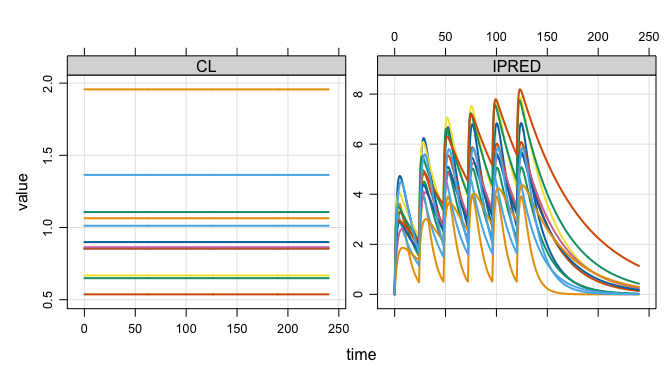
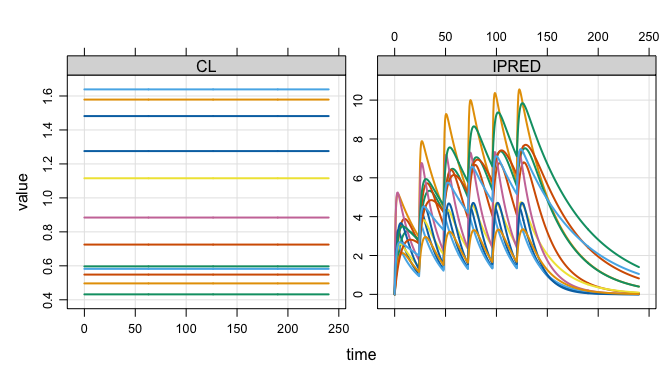
readme

diff --git a/README.md b/README.md
@@ -60,14 +60,14 @@ out
 . Files: 1 [11.9 Mb]
 . Owner: yes
 .     ID time       CL    IPRED
-. 1:   1  0.0 0.854883 0.000000
-. 2:   1  0.0 0.854883 0.000000
-. 3:   1  0.5 0.854883 1.338030
-. 4:   1  1.0 0.854883 2.347499
-. 5:   1  1.5 0.854883 3.101430
-. 6:   1  2.0 0.854883 3.656796
-. 7:   1  2.5 0.854883 4.058040
-. 8:   1  3.0 0.854883 4.339831
+. 1:   1  0.0 1.481687 0.000000
+. 2:   1  0.0 1.481687 0.000000
+. 3:   1  0.5 1.481687 1.440259
+. 4:   1  1.0 1.481687 2.309250
+. 5:   1  1.5 1.481687 2.818177
+. 6:   1  2.0 1.481687 3.100575
+. 7:   1  2.5 1.481687 3.240858
+. 8:   1  3.0 1.481687 3.292378
 ```
 
 ## Very lightweight simulation output object
@@ -78,7 +78,7 @@ disk.
 
 ``` r
 basename(out$files)
-. [1] "mrgsims-ds-1809b3f24fb6d.parquet"
+. [1] "mrgsims-ds-2f3a3504365d.parquet"
 ```
 
 This means there is almost nothing inside the object itself
@@ -123,23 +123,23 @@ head(out)
 . # A tibble: 6 × 4
 .      ID  time    CL IPRED
 .   <dbl> <dbl> <dbl> <dbl>
-. 1     1   0   0.855  0   
-. 2     1   0   0.855  0   
-. 3     1   0.5 0.855  1.34
-. 4     1   1   0.855  2.35
-. 5     1   1.5 0.855  3.10
-. 6     1   2   0.855  3.66
+. 1     1   0    1.48  0   
+. 2     1   0    1.48  0   
+. 3     1   0.5  1.48  1.44
+. 4     1   1    1.48  2.31
+. 5     1   1.5  1.48  2.82
+. 6     1   2    1.48  3.10
 
 tail(out)
 . # A tibble: 6 × 4
-.      ID  time    CL IPRED
-.   <dbl> <dbl> <dbl> <dbl>
-. 1  3000  238. 0.700 0.218
-. 2  3000  238  0.700 0.214
-. 3  3000  238. 0.700 0.211
-. 4  3000  239  0.700 0.207
-. 5  3000  240. 0.700 0.204
-. 6  3000  240  0.700 0.201
+.      ID  time    CL  IPRED
+.   <dbl> <dbl> <dbl>  <dbl>
+. 1  3000  238. 0.813 0.0395
+. 2  3000  238  0.813 0.0386
+. 3  3000  238. 0.813 0.0377
+. 4  3000  239  0.813 0.0369
+. 5  3000  240. 0.813 0.0360
+. 6  3000  240  0.813 0.0352
 
 dim(out)
 . [1] 1446000       4
@@ -153,16 +153,16 @@ as_tibble(out)
 . # A tibble: 1,446,000 × 4
 .       ID  time    CL IPRED
 .    <dbl> <dbl> <dbl> <dbl>
-.  1     1   0   0.855  0   
-.  2     1   0   0.855  0   
-.  3     1   0.5 0.855  1.34
-.  4     1   1   0.855  2.35
-.  5     1   1.5 0.855  3.10
-.  6     1   2   0.855  3.66
-.  7     1   2.5 0.855  4.06
-.  8     1   3   0.855  4.34
-.  9     1   3.5 0.855  4.53
-. 10     1   4   0.855  4.65
+.  1     1   0    1.48  0   
+.  2     1   0    1.48  0   
+.  3     1   0.5  1.48  1.44
+.  4     1   1    1.48  2.31
+.  5     1   1.5  1.48  2.82
+.  6     1   2    1.48  3.10
+.  7     1   2.5  1.48  3.24
+.  8     1   3    1.48  3.29
+.  9     1   3.5  1.48  3.29
+. 10     1   4    1.48  3.25
 . # ℹ 1,445,990 more rows
 ```
 
@@ -188,16 +188,16 @@ as_duckdb_ds(out)
 . # Database: DuckDB 1.4.3 [kyleb@Darwin 24.6.0:R 4.5.2/:memory:]
 .       ID  time    CL IPRED
 .    <dbl> <dbl> <dbl> <dbl>
-.  1     1   0   0.855  0   
-.  2     1   0   0.855  0   
-.  3     1   0.5 0.855  1.34
-.  4     1   1   0.855  2.35
-.  5     1   1.5 0.855  3.10
-.  6     1   2   0.855  3.66
-.  7     1   2.5 0.855  4.06
-.  8     1   3   0.855  4.34
-.  9     1   3.5 0.855  4.53
-. 10     1   4   0.855  4.65
+.  1     1   0    1.48  0   
+.  2     1   0    1.48  0   
+.  3     1   0.5  1.48  1.44
+.  4     1   1    1.48  2.31
+.  5     1   1.5  1.48  2.82
+.  6     1   2    1.48  3.10
+.  7     1   2.5  1.48  3.24
+.  8     1   3    1.48  3.29
+.  9     1   3.5  1.48  3.29
+. 10     1   4    1.48  3.25
 . # ℹ more rows
 ```
 
@@ -232,11 +232,11 @@ collect(dd)
 .    <dbl> <dbl> <int>
 .  1   0    0     6000
 .  2   0.5  1.11  3000
-.  3   1    1.81  3000
-.  4   1.5  2.27  3000
-.  5   2    2.58  3000
-.  6   2.5  2.80  3000
-.  7   3    2.94  3000
+.  3   1    1.82  3000
+.  4   1.5  2.28  3000
+.  5   2    2.59  3000
+.  6   2.5  2.81  3000
+.  7   3    2.95  3000
 .  8   3.5  3.04  3000
 .  9   4    3.10  3000
 . 10   4.5  3.13  3000
@@ -262,15 +262,15 @@ out2
 . Dim  : 14.5M x 4
 . Files: 10 [119.1 Mb]
 . Owner: yes
-.     ID time       CL     IPRED
-. 1:   1  0.0 1.181417 0.0000000
-. 2:   1  0.0 1.181417 0.0000000
-. 3:   1  0.5 1.181417 0.7709781
-. 4:   1  1.0 1.181417 1.3517228
-. 5:   1  1.5 1.181417 1.7856600
-. 6:   1  2.0 1.181417 2.1063675
-. 7:   1  2.5 1.181417 2.3398068
-. 8:   1  3.0 1.181417 2.5060496
+.     ID time       CL    IPRED
+. 1:   1  0.0 1.002573 0.000000
+. 2:   1  0.0 1.002573 0.000000
+. 3:   1  0.5 1.002573 2.019559
+. 4:   1  1.0 1.002573 2.868638
+. 5:   1  1.5 1.002573 3.205144
+. 6:   1  2.0 1.002573 3.317543
+. 7:   1  2.5 1.002573 3.332311
+. 8:   1  3.0 1.002573 3.304892
 ```
 
 ## Files on disk are automagically managed
@@ -280,11 +280,11 @@ All `arrow` files are stored in the `tempdir()` in parquet format
 ``` r
 list_temp()
 . 11 files [131.1 Mb]
-. - mrgsims-ds-1809b3f24fb6d.parquet
-. - mrgsims-ds-180d847b58023.parquet
+. - mrgsims-ds-2f3a3504365d.parquet
+. - mrgsims-ds-2f7848803261.parquet
 .    ...
-. - mrgsims-ds-180dc21296c60.parquet
-. - mrgsims-ds-180dc268a23a2.parquet
+. - mrgsims-ds-2f7c1566d5d1.parquet
+. - mrgsims-ds-2f7c7940da62.parquet
 ```
 
 This directory is eventually removed when the R session ends. Tools are
@@ -296,11 +296,11 @@ retain_temp(out2)
 
 list_temp()
 . 10 files [119.1 Mb]
-. - mrgsims-ds-180d847b58023.parquet
-. - mrgsims-ds-180d85cef9e9c.parquet
+. - mrgsims-ds-2f7848803261.parquet
+. - mrgsims-ds-2f78586ba376.parquet
 .    ...
-. - mrgsims-ds-180dc21296c60.parquet
-. - mrgsims-ds-180dc268a23a2.parquet
+. - mrgsims-ds-2f7c1566d5d1.parquet
+. - mrgsims-ds-2f7c7940da62.parquet
 ```
 
 We also put a finalizer on each object so that, when it goes out of
@@ -342,8 +342,8 @@ cleaned up.
 ``` r
 gc()
 .            used  (Mb) gc trigger  (Mb) limit (Mb) max used  (Mb)
-. Ncells  1952941 104.3    3644250 194.7         NA  3213573 171.7
-. Vcells 15248327 116.4   29098664 222.1      16384 26999946 206.0
+. Ncells  1946785 104.0    3643211 194.6         NA  3168180 169.2
+. Vcells 15236954 116.3   29084998 222.0      16384 26988544 206.0
 
 list_temp()
 . 2 files [23.8 Mb]
